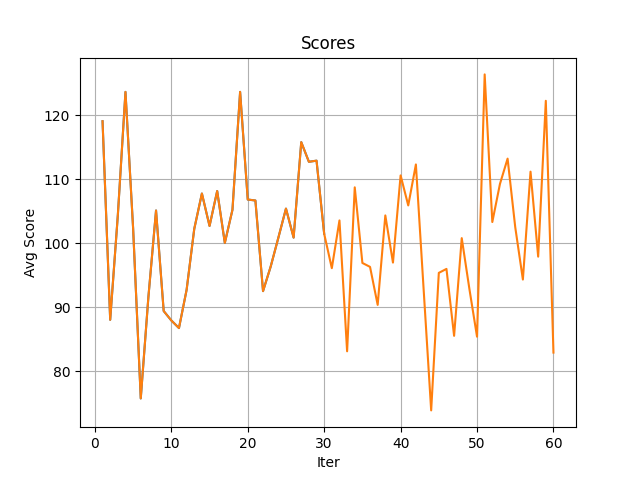
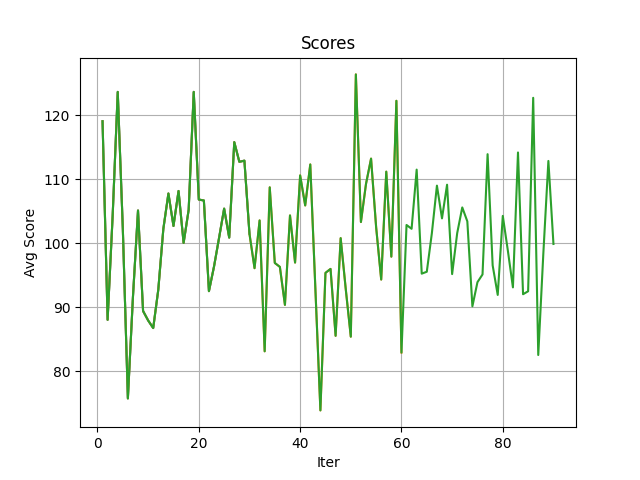
customized reward function

diff --git a/turtlebot_maze_env.py b/turtlebot_maze_env.py
@@ -114,17 +114,29 @@ class Maze:
             elif action == 4:
                 p.setJointMotorControl2(self.rid, 0, p.TORQUE_CONTROL, force=0)
                 p.setJointMotorControl2(self.rid, 1, p.TORQUE_CONTROL, force=0)
-        p.stepSimulation()
-        data = self.getInput()
-        # hit wall or flipped
-        collision = False
-        # reached goal
-        terminated = False
         x, y, z, rr, rp, ry = self.getPos()
-        distance = dist((x,y), self.goal)
         if self.visuals:
             p.resetDebugVisualizerCamera(cameraDistance=4, cameraYaw=ry*180/np.pi-90, cameraPitch=-75, cameraTargetPosition=(x, y, z))
             #time.sleep(0.001)
+        p.stepSimulation()
+        collision, terminated = self.termination()
+        return terminated, collision
+    def rewardF(self, distG=True, angle=True, safety=True):
+        reward = 0
+        if distG:
+            x, y, z, rr, rp, ry = self.getPos()
+            distance = dist((x,y), self.goal)
+            reward += 1/distance
+        if angle:
+            reward += self.angleReward()
+        if safety:
+            reward += self.safetyReward()
+        return reward
+    def termination(self):
+        collision = False
+        terminated = False
+        x, y, z, rr, rp, ry = self.getPos()
+        distance = dist((x,y), self.goal)
         # robot leaves ground
         if z > 0.1 or z < -0.5:
             collision = True
@@ -134,15 +146,16 @@ class Maze:
             collision = True
         if distance < self.thresh:
             terminated = True
-        if collision:
-            reward = -10
-        elif terminated:
-            reward = 10
-        else:
-            reward = 1/distance - 0.1
-        # reward for facing the goal
-        reward = 2 ** -(self.goalAngle()[0] ** 2)
-        return data, reward, terminated, collision
+        return collision, terminated
+    # reward for facing the goal
+    def angleReward(self):
+        weight = 1
+        return weight * 2 ** -(self.goalAngle()[0] ** 2)
+    # reward for staying away from walls
+    def safetyReward(self):
+        data = self.getInput()
+        weight = 1
+        return -weight * 1 / min(data)
     def getInput(self):
         x, y, z, rr, rp, ry = self.getPos()
         sensor_pos = (x, y, 0.9)

diff --git a/trainer_discrete.py b/trainer_discrete.py
@@ -65,9 +65,9 @@ def credit_loss(data, gamma, num_episodes):
     return loss / num_episodes
 def main(args):
     device = torch.device('cuda' if torch.cuda.is_available() else 'cpu')
-    input_size = 3
+    input_size = 4
     gamma = 0.99
-    learning_rate = 0.01
+    learning_rate = 0.005
 
     env = maze.Maze(180, visuals=True, thresh=0.1)
     model = rlnet.PolDiscrete(input_size)
@@ -83,7 +83,7 @@ def main(args):
     env_tensor = env.getEnvTensor()
     #file_path = 'data/env1/path0.txt'
     #data = getPathData(file_path)
-    num_episodes = 20
+    num_episodes = 50
     for epoch in range(args.epochs):
         avg_score = 0
         avg_angle = 0
@@ -108,10 +108,12 @@ def main(args):
                 # training loop
                 steps += 1
                 x, y, z, rr, rp, ry = env.getPos()
-                input = torch.tensor((env.goalAngle()[0], env.getVel()[0], env.getVel()[1]))
+                angle, distance = env.goalAngle()
+                input = torch.tensor((angle, distance, env.getVel()[0], env.getVel()[1]))
                 input = input.to(device)
                 action, log_prob = model(input)
-                lidar, reward, terminated, collision = env.step(action, discr=True)
+                terminated, collision = env.step(action, discr=True)
+                reward = env.rewardF()
                 #if steps == iters:
                     #reward = -10
                 rewards.append(torch.tensor(reward, dtype=torch.float32))
@@ -130,7 +132,7 @@ def main(args):
             avg_angle += 2 ** -(env.goalAngle()[0] ** 2)
             loss_data.append((rewards, probs))
             #print(len(reward_probs))
-        loss = credit_loss(loss_data, gamma, num_episodes)
+        loss = lossF(loss_data, gamma, num_episodes, device)
         #gradient calculation
         optimizer.zero_grad()
         loss.backward()
